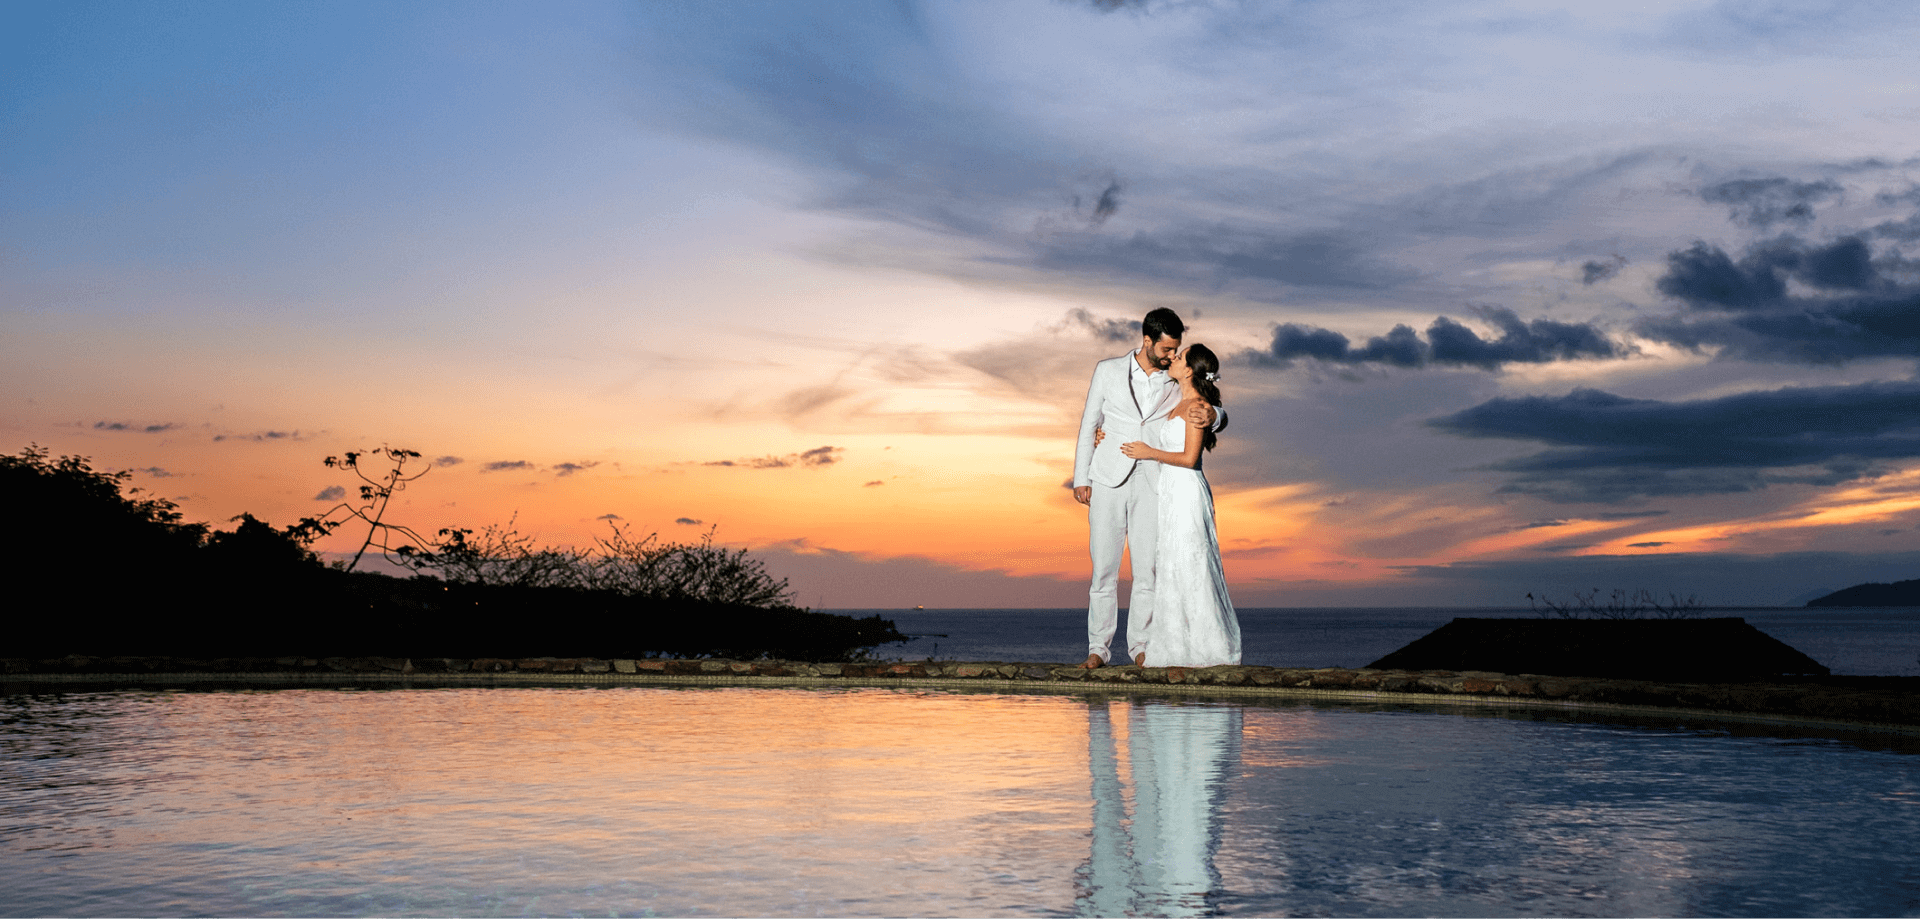
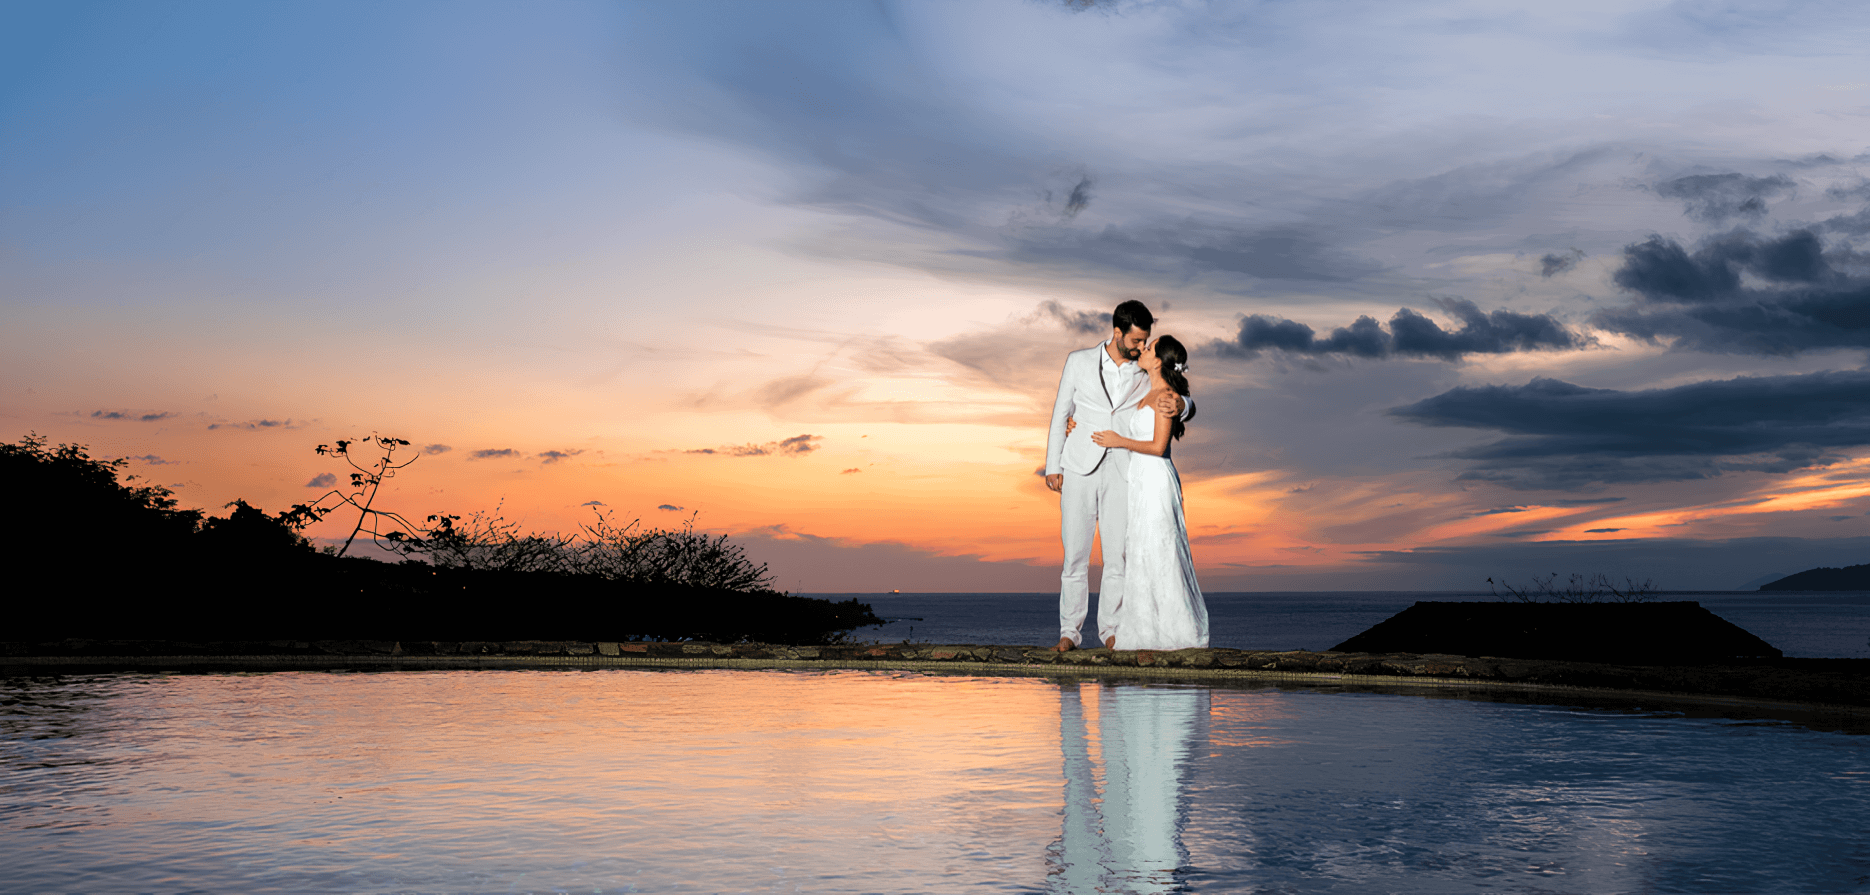
Image upscale

diff --git a/src/partials/PhraseBanner/styles.module.scss b/src/partials/PhraseBanner/styles.module.scss
@@ -1,5 +1,5 @@
 .bg_image {
-    background-image: url("../../../public/phrase/phrase.jpg");
+    background-image: url("../../../public/phrase/phrase-upscaled.jpg");
     background-position: center left;
     background-size: cover;
     background-repeat: no-repeat;
